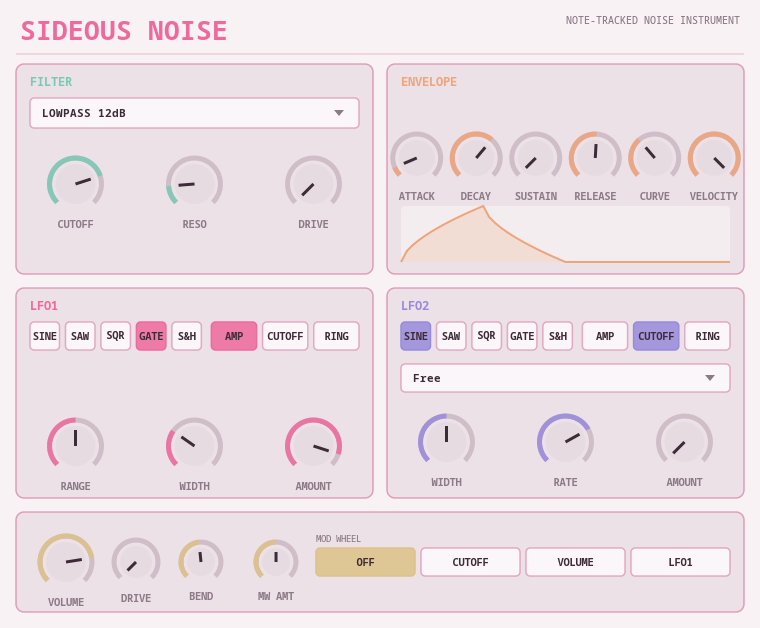
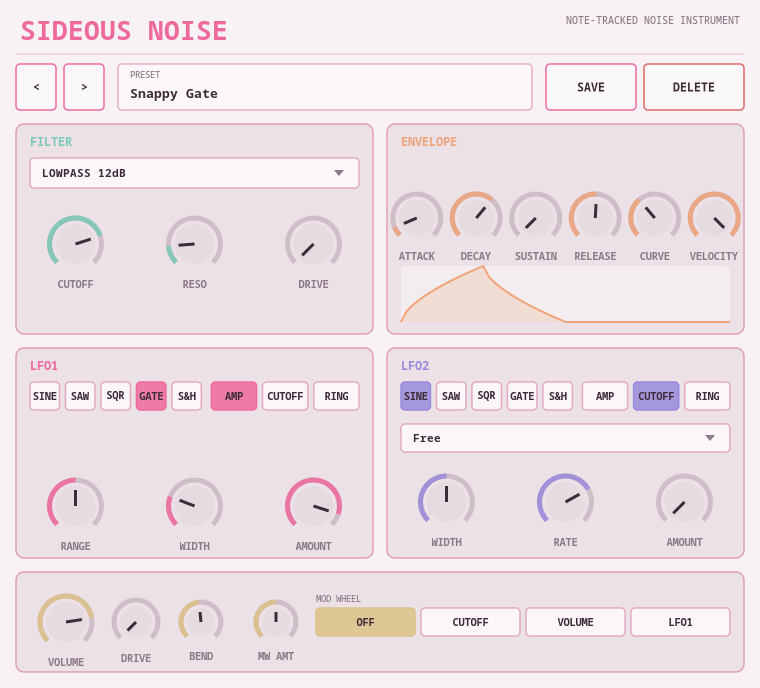
Update screenshots and feature lists for the new preset browser

Changed region(s): [[0.0, 0.0, 0.9987, 0.9984], [0.0303, 0.8774, 0.0605, 0.9379]]

diff --git a/index.html b/index.html
@@ -257,6 +257,7 @@
       <li>Tempo-synced LFO (1/1 to 1/64, dotted/triplet) and a 4-pattern arpeggiator</li>
       <li>16-voice polyphony, or mono with portamento and legato control</li>
       <li>Knobs show live values while being automated, not just while dragging</li>
+      <li>Built-in file-based preset browser (Prev/Next, rename, save/delete) with 11 factory presets, works in every format including the JACK standalone</li>
     </ul>
     <div class="plugin-actions">
       <a class="btn" href="https://github.com/marcin-koziol/Sideous-synth">↗ github.com/marcin-koziol/Sideous-synth</a>
@@ -281,6 +282,7 @@
       <li>Closed/open hi-hat choke group, classic 3-burst "flam" handclap</li>
       <li>Two builds: single stereo mix, or a 13-bus multi-out version for per-drum routing/sends</li>
       <li>Master Drive/Mix stage as a character control, not just a limiter</li>
+      <li>Built-in file-based preset browser with 10 factory presets (808/909, Trap, Lo-Fi Chip, Industrial, and more), works in every format including the JACK standalone</li>
     </ul>
     <div class="plugin-actions">
       <a class="btn" href="https://github.com/marcin-koziol/Sideous-drums">↗ github.com/marcin-koziol/Sideous-drums</a>
@@ -307,6 +309,7 @@
       <li>A second free-running or tempo-synced LFO for extra movement without a second envelope</li>
       <li>16-voice polyphony with independently-seeded voices — chords stay decorrelated, not just louder</li>
       <li>Pitch bend actually bends LFO1's rate — the closest thing this instrument has to "pitch"</li>
+      <li>Built-in file-based preset browser with 10 factory presets spanning sub-rhythm to audio-rate buzz, works in every format including the JACK standalone</li>
     </ul>
     <div class="plugin-actions">
       <a class="btn" href="https://github.com/marcin-koziol/Sideous-noise">↗ github.com/marcin-koziol/Sideous-noise</a>
@@ -331,6 +334,7 @@
       <li>LFO can sweep the Vowel knob itself for a slow "talking pad" effect</li>
       <li>Same filter/ADSR toolkit as the rest of the family, true stereo path end-to-end so unison width survives</li>
       <li>8-voice polyphony as a chord instrument, with live-updating automated knobs</li>
+      <li>Built-in file-based preset browser with 8 factory presets (Angelic Choir, 8-Bit Cathedral, Talking Synth Voice, and more), works in every format including the JACK standalone</li>
     </ul>
     <div class="plugin-actions">
       <a class="btn" href="https://github.com/marcin-koziol/Sideous-pad">↗ github.com/marcin-koziol/Sideous-pad</a>
